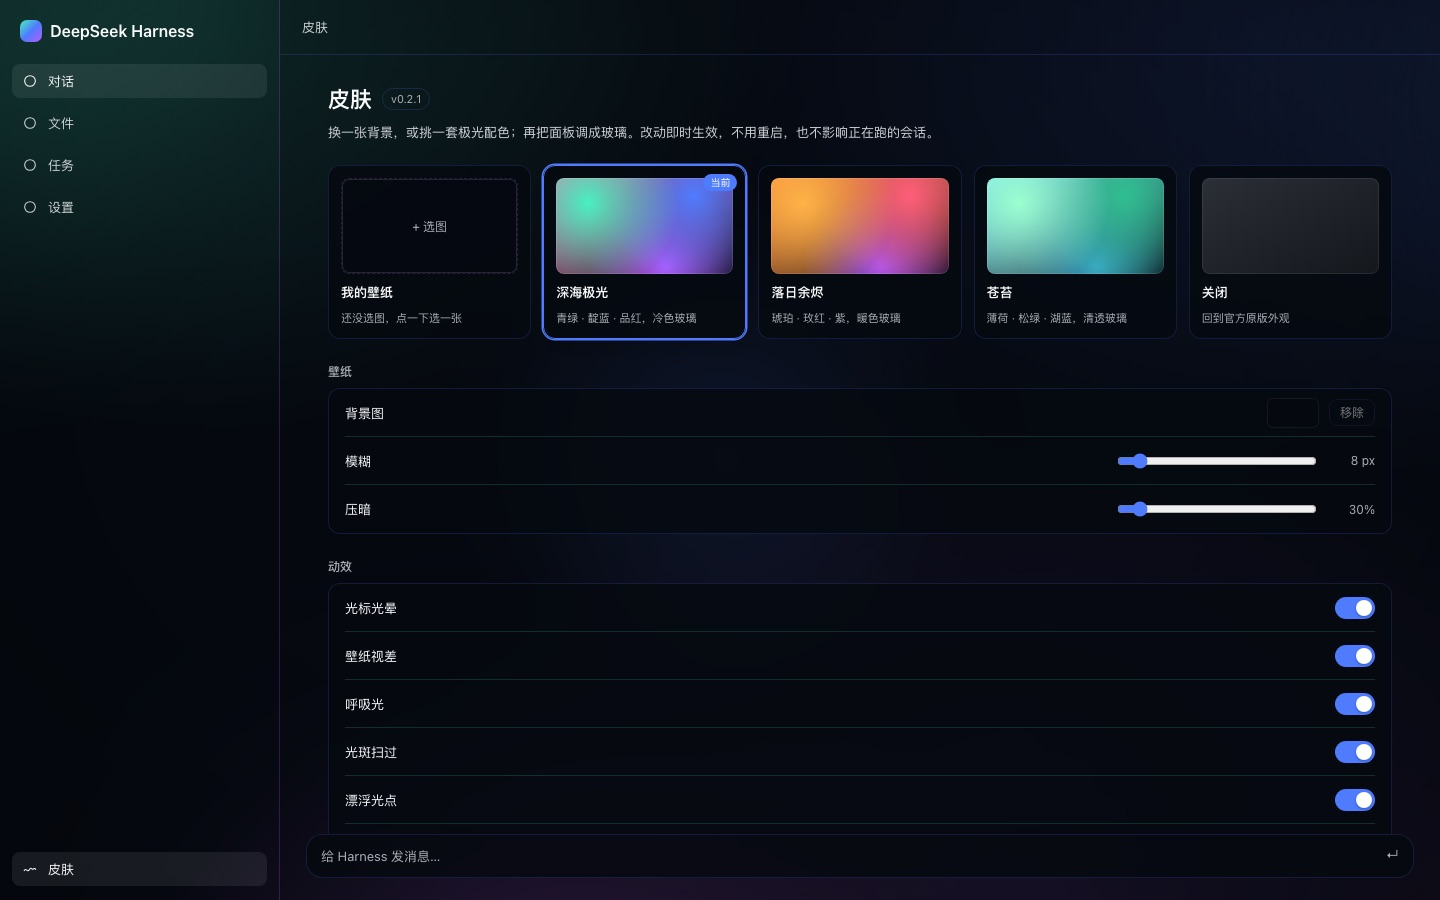
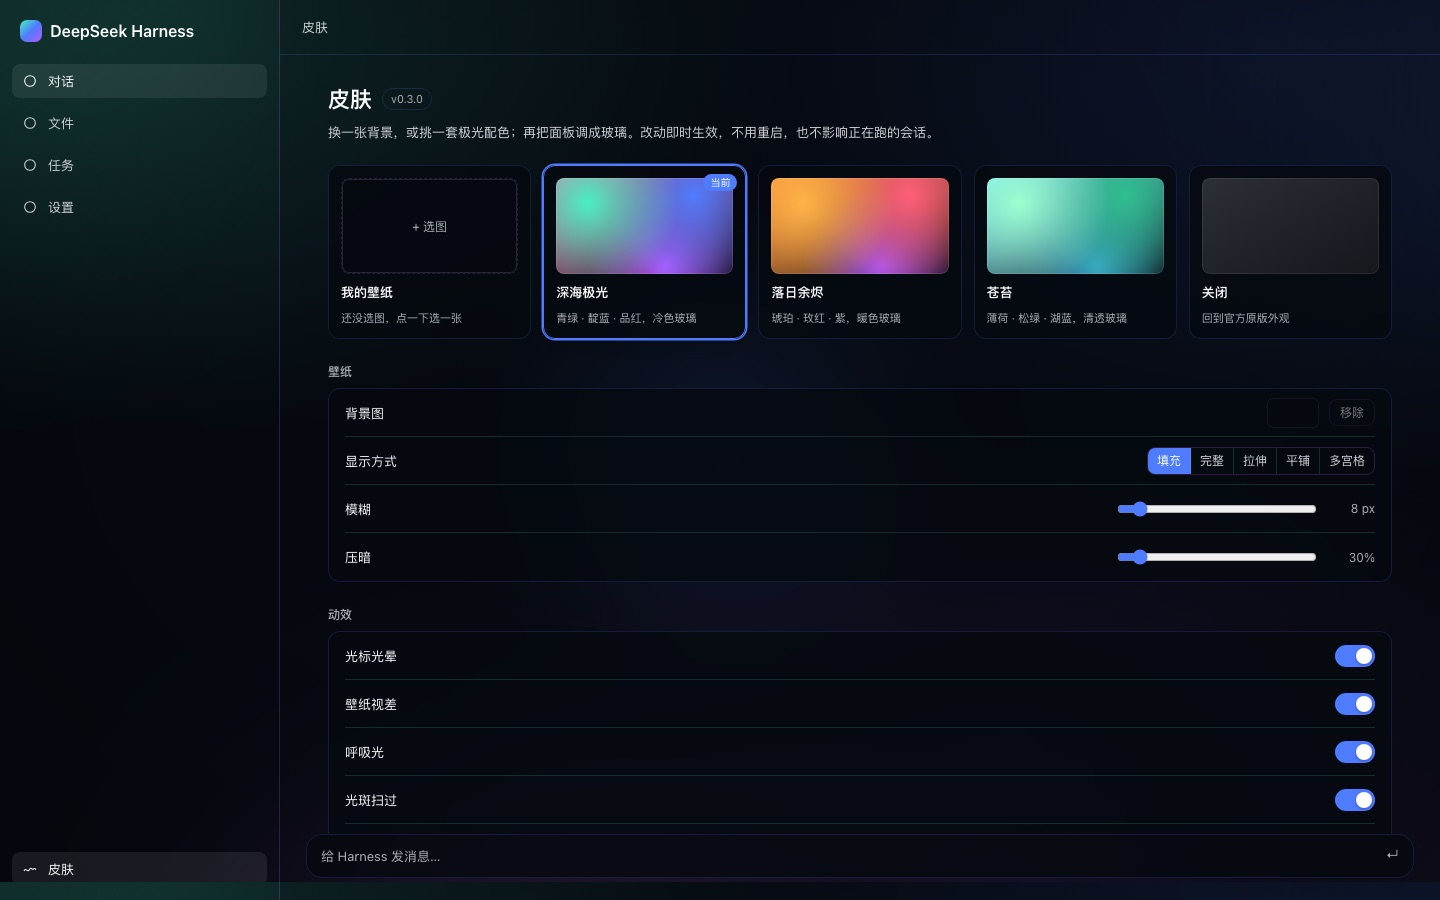
feat: wallpaper fit modes - fill, contain, stretch, tile, grid (v0.3.0)

diff --git a/client.js b/client.js
@@ -19,7 +19,7 @@ window.__ModuleLoader__.load({
     const h = React.createElement
 
     const NAME = 'dsh-aurora-theme'
-    const VERSION = '0.2.1'
+    const VERSION = '0.3.0'
     /** Main-panel key and sidebar entry id; they must match. */
     const PANEL_ID = 'aurora-theme'
     /** Locale namespace for this plugin's dictionaries. */
@@ -35,8 +35,11 @@ window.__ModuleLoader__.load({
     const MODES = ['aurora', 'ember', 'mint', 'wallpaper', 'off']
     /** Toggle order on the page; each key becomes `data-aurora-<key>`. */
     const TOGGLES = ['glow', 'parallax', 'breathe', 'sweep', 'motes', 'grain', 'glass']
+    /** Wallpaper mapping: fill (crop), contain, stretch, tile, 3x3 grid. */
+    const FITS = ['cover', 'contain', 'stretch', 'tile', 'grid']
     const DEFAULT_STATE = {
       mode: 'aurora',
+      fit: 'cover',
       blur: 8,
       dim: 30,
       glow: true,
@@ -85,6 +88,12 @@ window.__ModuleLoader__.load({
       'skin.mint': '苍苔',
       'skin.mint.desc': '薄荷 · 松绿 · 湖蓝，清透玻璃',
       wallpaperSection: '壁纸',
+      fit: '显示方式',
+      'fit.cover': '填充',
+      'fit.contain': '完整',
+      'fit.stretch': '拉伸',
+      'fit.tile': '平铺',
+      'fit.grid': '多宫格',
       background: '背景图',
       remove: '移除',
       blur: '模糊',
@@ -120,6 +129,12 @@ window.__ModuleLoader__.load({
       'skin.mint': 'Moss',
       'skin.mint.desc': 'Mint · pine · lagoon, clear glass',
       wallpaperSection: 'Wallpaper',
+      fit: 'Fit',
+      'fit.cover': 'Fill',
+      'fit.contain': 'Fit',
+      'fit.stretch': 'Stretch',
+      'fit.tile': 'Tile',
+      'fit.grid': 'Grid',
       background: 'Background',
       remove: 'Remove',
       blur: 'Blur',
@@ -154,6 +169,7 @@ window.__ModuleLoader__.load({
       if (raw === null || typeof raw !== 'object') return state
       if (MODES.includes(raw.mode)) state.mode = raw.mode
       else if (typeof raw.skin === 'string' && MODES.includes(raw.skin)) state.mode = raw.skin
+      if (FITS.includes(raw.fit)) state.fit = raw.fit
       if (Number.isFinite(raw.blur)) state.blur = clamp(Math.round(raw.blur), 0, 40)
       if (Number.isFinite(raw.dim)) state.dim = clamp(Math.round(raw.dim), 0, 80)
       for (const key of TOGGLES) if (typeof raw[key] === 'boolean') state[key] = raw[key]
@@ -342,7 +358,7 @@ window.__ModuleLoader__.load({
     /* background layer                                                   */
     /* ------------------------------------------------------------------ */
 
-    const BODY_ATTRS = ['data-aurora-on', 'data-aurora-mode', ...TOGGLES.map((key) => `data-aurora-${key}`)]
+    const BODY_ATTRS = ['data-aurora-on', 'data-aurora-mode', 'data-aurora-fit', ...TOGGLES.map((key) => `data-aurora-${key}`)]
 
     function applyBody(state) {
       const body = document.body
@@ -350,6 +366,7 @@ window.__ModuleLoader__.load({
       if (state.mode === 'off') body.removeAttribute('data-aurora-on')
       else body.setAttribute('data-aurora-on', '1')
       body.setAttribute('data-aurora-mode', state.mode)
+      body.setAttribute('data-aurora-fit', state.fit)
       for (const key of TOGGLES) body.setAttribute(`data-aurora-${key}`, state[key] ? '1' : '0')
     }
 
@@ -369,7 +386,12 @@ window.__ModuleLoader__.load({
     /** Static markup for the backdrop; no user input reaches it. */
     const LAYER_HTML =
       '<div class="dsh-aurora-parallax">' +
-      '<div class="dsh-aurora-wallpaper"><img alt=""></div>' +
+      '<div class="dsh-aurora-wallpaper"></div>' +
+      '<div class="dsh-aurora-wallpaper-grid">' +
+      '<span style="--c:0;--r:0"></span><span style="--c:1;--r:0"></span><span style="--c:2;--r:0"></span>' +
+      '<span style="--c:0;--r:1"></span><span style="--c:1;--r:1"></span><span style="--c:2;--r:1"></span>' +
+      '<span style="--c:0;--r:2"></span><span style="--c:1;--r:2"></span><span style="--c:2;--r:2"></span>' +
+      '</div>' +
       '<div class="dsh-aurora-drift">' +
       '<div class="dsh-aurora-blob b1"></div>' +
       '<div class="dsh-aurora-blob b2"></div>' +
@@ -494,14 +516,12 @@ window.__ModuleLoader__.load({
       layer.innerHTML = LAYER_HTML
       document.body.appendChild(layer)
 
-      const image = layer.querySelector('img')
       const canvas = layer.querySelector('canvas')
       const motes = canvas === null ? null : createMotes(canvas)
 
       const syncWallpaper = () => {
-        if (image === null) return
-        if (wallpaperUrl === null) image.removeAttribute('src')
-        else image.setAttribute('src', wallpaperUrl)
+        if (wallpaperUrl === null) layer.style.removeProperty('--a-wallpaper')
+        else layer.style.setProperty('--a-wallpaper', `url("${wallpaperUrl}")`)
       }
       const unsubscribeWallpaper = subscribeWallpaper(syncWallpaper)
       syncWallpaper()
@@ -762,6 +782,32 @@ window.__ModuleLoader__.load({
               ),
             ),
           ),
+          h(
+            'div',
+            { className: 'dsh-aurora-row' },
+            h('span', { className: 'dsh-aurora-row-label' }, translate('fit')),
+            h(
+              'span',
+              { className: 'dsh-aurora-row-control' },
+              h(
+                'span',
+                { className: 'dsh-aurora-segments' },
+                ...FITS.map((fit) =>
+                  h(
+                    'button',
+                    {
+                      key: fit,
+                      type: 'button',
+                      className: 'dsh-aurora-segment' + (state.fit === fit ? ' is-on' : ''),
+                      'aria-pressed': state.fit === fit,
+                      onClick: () => store.set({ fit }),
+                    },
+                    translate(`fit.${fit}`),
+                  ),
+                ),
+              ),
+            ),
+          ),
           h(Slider, { id: 'blur', min: 0, max: 40, value: state.blur, unit: ' px' }),
           h(Slider, { id: 'dim', min: 0, max: 80, value: state.dim, unit: '%' }),
         ),
@@ -891,12 +937,48 @@ body[data-aurora-mode="off"] #dsh-aurora-layer { display: none; }
 }
 body[data-aurora-parallax="0"] #dsh-aurora-layer .dsh-aurora-parallax { transform: none; }
 
-#dsh-aurora-layer .dsh-aurora-wallpaper { display: none; }
-body[data-aurora-mode="wallpaper"] #dsh-aurora-layer .dsh-aurora-wallpaper { display: block; }
-#dsh-aurora-layer .dsh-aurora-wallpaper img {
-  width: 100%; height: 100%; object-fit: cover;
+#dsh-aurora-layer .dsh-aurora-wallpaper {
+  display: none;
+  background-image: var(--a-wallpaper, none);
+  background-position: center;
+  background-repeat: no-repeat;
+  background-size: cover;
+  background-color: color-mix(in srgb, var(--a-bg) 82%, #000);
   filter: blur(calc(var(--a-blur, 8) * 1px)) brightness(calc(1 - var(--a-dim, 30) / 100));
-  transform: scale(1.05);
+  transform: scale(1.04);
+}
+body[data-aurora-mode="wallpaper"] #dsh-aurora-layer .dsh-aurora-wallpaper { display: block; }
+body[data-aurora-mode="wallpaper"][data-aurora-fit="contain"] #dsh-aurora-layer .dsh-aurora-wallpaper {
+  background-size: contain;
+}
+body[data-aurora-mode="wallpaper"][data-aurora-fit="stretch"] #dsh-aurora-layer .dsh-aurora-wallpaper {
+  background-size: 100% 100%;
+}
+body[data-aurora-mode="wallpaper"][data-aurora-fit="tile"] #dsh-aurora-layer .dsh-aurora-wallpaper {
+  background-size: 22% auto;
+  background-repeat: repeat;
+  background-position: 0 0;
+}
+body[data-aurora-mode="wallpaper"][data-aurora-fit="grid"] #dsh-aurora-layer .dsh-aurora-wallpaper {
+  display: none;
+}
+
+#dsh-aurora-layer .dsh-aurora-wallpaper-grid {
+  position: absolute; inset: -6%; display: none;
+  grid-template-columns: repeat(3, 1fr); grid-template-rows: repeat(3, 1fr);
+  gap: 10px; padding: 10px;
+  filter: blur(calc(var(--a-blur, 8) * 1px)) brightness(calc(1 - var(--a-dim, 30) / 100));
+}
+body[data-aurora-mode="wallpaper"][data-aurora-fit="grid"] #dsh-aurora-layer .dsh-aurora-wallpaper-grid {
+  display: grid;
+}
+#dsh-aurora-layer .dsh-aurora-wallpaper-grid span {
+  background-image: var(--a-wallpaper, none);
+  background-size: 300% 300%;
+  background-position: calc(var(--c) * 50%) calc(var(--r) * 50%);
+  background-repeat: no-repeat;
+  border-radius: 10px;
+  box-shadow: 0 10px 30px rgba(0, 0, 0, 0.22), inset 0 0 0 1px rgba(255, 255, 255, 0.08);
 }
 body[data-aurora-mode="wallpaper"] #dsh-aurora-layer .dsh-aurora-drift { display: none; }
 
@@ -1077,7 +1159,7 @@ body:not([data-ds-dark-theme]) #dsh-aurora-layer .dsh-aurora-vignette {
   background: var(--dsw-alias-bg-layer-1, rgba(127, 127, 127, 0.08));
 }
 .dsh-aurora-row {
-  display: flex; align-items: center; justify-content: space-between; gap: 16px;
+  display: flex; flex-wrap: wrap; align-items: center; justify-content: space-between; gap: 8px 16px;
   min-height: 48px; padding: 8px 0;
   border-bottom: 1px solid var(--dsw-alias-border-l1, rgba(127, 127, 127, 0.16));
 }
@@ -1095,6 +1177,18 @@ body:not([data-ds-dark-theme]) #dsh-aurora-layer .dsh-aurora-vignette {
   box-shadow: inset 0 0 0 1px rgba(255, 255, 255, 0.12);
 }
 .dsh-aurora-thumb.is-empty { opacity: 0.5; }
+.dsh-aurora-segments {
+  display: inline-flex; border-radius: 8px; overflow: hidden;
+  border: 1px solid var(--dsw-alias-border-l3, rgba(127, 127, 127, 0.3));
+}
+.dsh-aurora-segment {
+  padding: 4px 9px; border: 0; border-right: 1px solid var(--dsw-alias-border-l1, rgba(127, 127, 127, 0.16));
+  background: transparent; color: var(--dsw-alias-label-secondary, #555);
+  font: inherit; font-size: 12px; line-height: 18px; cursor: pointer; white-space: nowrap;
+}
+.dsh-aurora-segment:last-child { border-right: 0; }
+.dsh-aurora-segment:hover { background: var(--dsw-alias-interactive-bg-hover, rgba(127, 127, 127, 0.1)); }
+.dsh-aurora-segment.is-on { background: var(--a2, #4f7cff); color: #fff; }
 .dsh-aurora-remove {
   padding: 4px 10px; border-radius: 8px; cursor: pointer; font: inherit; font-size: 12px;
   border: 1px solid var(--dsw-alias-border-l3, rgba(127, 127, 127, 0.3));

diff --git a/README.md b/README.md
@@ -12,6 +12,7 @@ DSH Web UI 的壁纸皮肤：选一张自己的图（可模糊、压暗），或
 ## 特性
 
 - **自定义壁纸**：点「我的壁纸」选一张图，图片只存本机 IndexedDB，不上传。
+- **五种显示方式**：填充（默认，铺满裁切）、完整（不裁切）、拉伸、平铺、多宫格（3×3 分格）。
 - **模糊 / 压暗**：两个滑杆实时作用于壁纸，值会记住。
 - **三套极光配色**：深海极光（青绿/靛蓝/品红）、落日余烬（琥珀/玫红/紫）、苍苔（薄荷/松绿/湖蓝）。
 - **关闭**：一键回到 DSH 官方原版外观，不留残留。
@@ -44,7 +45,7 @@ dsh plugin --profile web add https://github.com/lewis6663721/dsh-aurora-theme
 
 ```sh
 npm pack --pack-destination dist
-dsh plugin --profile web add ./dist/dsh-aurora-theme-0.2.1.tgz
+dsh plugin --profile web add ./dist/dsh-aurora-theme-0.3.0.tgz
 ```
 
 ### 从本地目录安装（开发用）
@@ -68,7 +69,7 @@ dsh plugin --profile web remove dsh-aurora-theme
 | 区域 | 内容 |
 | --- | --- |
 | 外观 | 「我的壁纸」+ 三套极光配色 + 「关闭」，点一下立即切换 |
-| 壁纸 | 背景图缩略图 / 移除、模糊 0–40 px、压暗 0–80% |
+| 壁纸 | 背景图缩略图 / 移除、显示方式（填充/完整/拉伸/平铺/多宫格）、模糊 0–40 px、压暗 0–80% |
 | 动效 | 七个开关：光标光晕、壁纸视差、呼吸光、光斑扫过、漂浮光点、颗粒噪点、分区玻璃 |
 
 选「关闭」会回到官方原版外观；再点任意配色或壁纸即可恢复。
@@ -105,7 +106,8 @@ apply(ctx)    ├─ ctx.effect(install)        背景层 + 样式 + body 属性
 - 两个槽位：`sidebar.panellist`（左侧栏一行）和 `main`（主面板页），`id` 与 `key` 必须一致。
 - 背景层是 `position: fixed; z-index: -1` 的独立节点：壁纸 `<img>`、极光色团、光标光晕、
   扫光、尘埃 canvas、噪点、暗角都在这层里。
-- 壁纸用 `blur(calc(var(--a-blur) * 1px)) brightness(...)` 实时响应滑杆，不重挂 DOM。
+- 壁纸用 `blur(calc(var(--a-blur) * 1px)) brightness(...)` 实时响应滑杆，不重挂 DOM；
+  显示方式只切换 `background-size/repeat` 或 3×3 网格的 `background-position`。
 - 表面只用 `--dsw-alias-*` / `--dsw-specific-*` token，并用 `!important` 压过主题呈现器写在
   `body` 内联样式上的值。
 - 「关闭」不销毁插件：移除 `data-aurora-on`，token 覆盖失效、背景层 `display:none`。
@@ -118,19 +120,20 @@ apply(ctx)    ├─ ctx.effect(install)        背景层 + 样式 + body 属性
 npm run check
 ```
 
-`tools/check.mjs` 用最小 DOM + 桩 React 跑 `client.js`，覆盖 11 项：
+`tools/check.mjs` 用最小 DOM + 桩 React 跑 `client.js`，覆盖 12 项：
 
 1. bundle 契约（`id`、`plugin.inject`、`apply`）
 2. 两个槽位的注册参数（`id`/`key`/`order`/`label`）
 3. 中英词典注册
 4. 背景层、`body` 属性、样式标签的安装
-5. 皮肤页五张卡片、两个滑杆、七个开关的渲染
+5. 皮肤页五张卡片、显示方式、两个滑杆、七个开关的渲染
 6. 选配色后的持久化与 `body` 更新
 7. 「关闭」移除 `data-aurora-on`
 8. 开关效果后的持久化
-9. 滑杆写入 CSS 变量并持久化
-10. 重载后恢复、locale 缺席时的降级
-11. 卸载清理与重复 apply 不叠层
+9. 显示方式切换与持久化
+10. 滑杆写入 CSS 变量并持久化
+11. 重载后恢复、locale 缺席时的降级
+12. 卸载清理与重复 apply 不叠层
 
 它不验证视觉效果和真实浏览器布局——那些只能刷新看。`client.js` 没有构建步骤，
 改完直接刷新页面即可；`node --check client.js` 可以兜底语法。
@@ -153,6 +156,7 @@ tools/check.mjs     无浏览器契约检查
 | --- | --- |
 | 装完左侧栏没有「皮肤」 | 没重启 `dsh`；或 bundle 未启用；或 DSH 版本不在兼容范围内 |
 | 有入口但界面没变化 | 刷新页面；确认 `body` 上有 `data-aurora-on` 与 `data-aurora-mode`（DevTools） |
+| 壁纸显示不全 | 默认「填充」会裁切；切到「完整」可看全图，「平铺 / 多宫格」是另外两种铺法 |
 | 选了壁纸但没显示 | 浏览器禁用了 IndexedDB，或图片类型不受支持；换一张 PNG/JPEG 再试 |
 | 壁纸太亮/太透 | 调大「压暗」；关掉「分区玻璃」 |
 | 安装被拒：版本不兼容 | 升级插件；确需运行旧版时按提示执行 `dsh plugin allow-version ... --accept-risk` |
